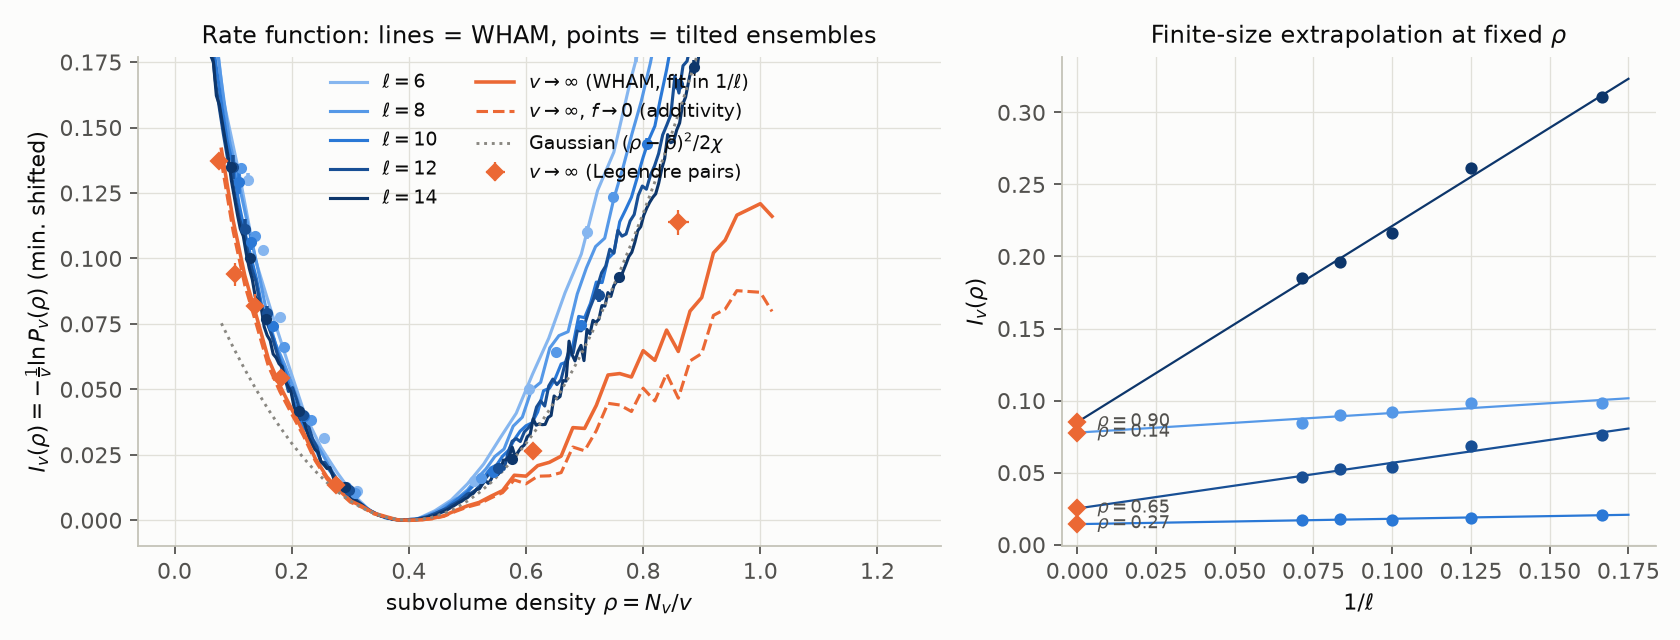
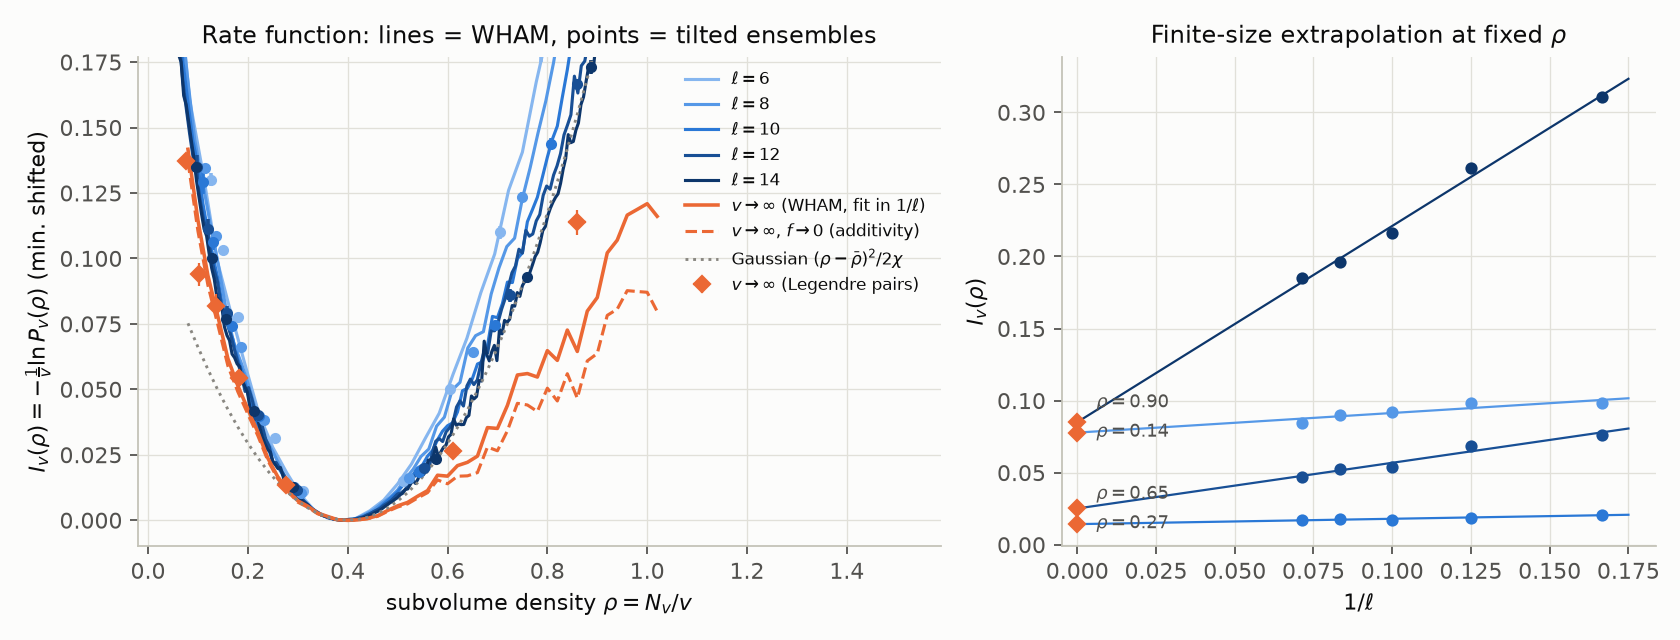
Figures: de-overlap extrapolation labels, move rate-function legend off the data
Claude-Session: https://claude.ai/code/session_016gDZDuybSwXUXZ24WfSVJ7

diff --git a/scripts/analyze_subvolume_ldp.py b/scripts/analyze_subvolume_ldp.py
@@ -210,6 +210,18 @@ def fit_inverse_ell(ells, y, yerr=None, order=1):
 # Figures
 # --------------------------------------------------------------------------
 
+def spread_labels(values, min_gap):
+    """Vertical label positions that keep at least min_gap between neighbours."""
+    v = np.asarray(values, float)
+    order = np.argsort(v)
+    pos = v.copy()
+    for k in range(1, order.size):
+        i, j = order[k - 1], order[k]
+        if pos[j] - pos[i] < min_gap:
+            pos[j] = pos[i] + min_gap
+    return pos
+
+
 def fig_scgf(runs, res, ext, path, ideal_ref=True):
     cols = size_colors(len(runs))
     fig, ax = plt.subplots(1, 2, figsize=(10.5, 4.0), gridspec_kw=dict(width_ratios=[1.35, 1]))
@@ -244,9 +256,13 @@ def fig_scgf(runs, res, ext, path, ideal_ref=True):
         coef = ext["coef"][j]
         if coef is not None:
             b.plot(xs, np.polyval(coef[::-1], xs), color=c, lw=1.0)
-        b.annotate(f"$\\lambda={l:+g}$", (0, ext["psi_inf"][j]), xytext=(9, 0), textcoords="offset points",
-                   color=INK2, fontsize=8, va="center")
         b.plot([0], [ext["psi_inf"][j]], marker="D", color=ORANGE, ms=5)
+    if sel:
+        lo_, hi_ = b.get_ylim()
+        yv = [ext["psi_inf"][int(np.argmin(np.abs(ext["lam"] - l)))] for l in sel]
+        for l, y0, yl in zip(sel, yv, spread_labels(yv, 0.06 * (hi_ - lo_))):
+            b.annotate(f"$\\lambda={l:+g}$", (0, y0), xytext=(0.006, yl), textcoords="data",
+                       color=INK2, fontsize=8, va="center")
     b.set_xlabel(r"$1/\ell$")
     b.set_ylabel(r"$\psi_v(\lambda)$")
     b.set_title(r"Convergence as $v=\ell^2\to\infty$")
@@ -279,10 +295,13 @@ def fig_rate(runs, res, ext, path, exact=None):
     a.set_title("Rate function: lines = WHAM, points = tilted ensembles")
     top = np.nanmax(ext["I_inf"]) * 1.25 if np.any(np.isfinite(ext["I_inf"])) else None
     a.set_ylim(-0.01, top)
-    a.legend(loc="upper center", ncol=2)
+    xmax = max(np.nanmax(q["rho"]) for q in res)
+    a.set_xlim(left=-0.02, right=xmax + 0.45)
+    a.legend(loc="upper right", ncol=1, fontsize=7.5)
     b = ax[1]
     xs = np.linspace(0, 1.05 / min(r["ell"] for r in runs), 50)
     lc = [BLUE_RAMP[2], BLUE_RAMP[4], BLUE_RAMP[7], BLUE_RAMP[9]]
+    labs = []
     for k, (rs, c) in enumerate(zip(ext["rho_sel"], lc)):
         y = [np.interp(rs, q["rho"], q["I"], left=np.nan, right=np.nan) for q in res]
         b.plot([1 / r["ell"] for r in runs], y, color=c, marker="o", ls="none", ms=4.5)
@@ -290,7 +309,12 @@ def fig_rate(runs, res, ext, path, exact=None):
         if coef is not None:
             b.plot(xs, np.polyval(coef[::-1], xs), color=c, lw=1.0)
             b.plot([0], [coef[0]], marker="D", color=ORANGE, ms=5)
-            b.annotate(f"$\\rho={rs:.2f}$", (0, coef[0]), xytext=(9, 0), textcoords="offset points",
+            labs.append((rs, coef[0]))
+    if labs:
+        lo_, hi_ = b.get_ylim()
+        ypos = spread_labels([y for _, y in labs], 0.06 * (hi_ - lo_))
+        for (rs, y0), yl in zip(labs, ypos):
+            b.annotate(f"$\\rho={rs:.2f}$", (0, y0), xytext=(0.006, yl), textcoords="data",
                        color=INK2, fontsize=8, va="center")
     b.set_xlabel(r"$1/\ell$")
     b.set_ylabel(r"$I_v(\rho)$")
